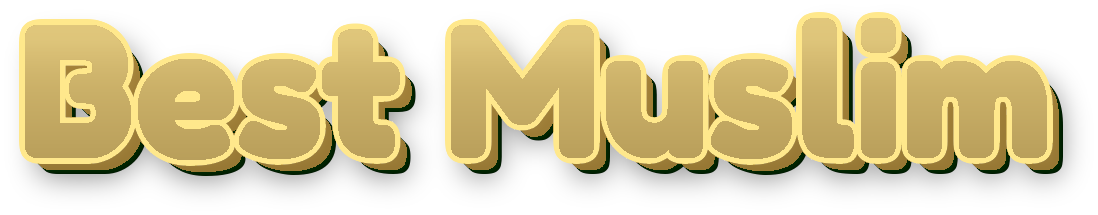
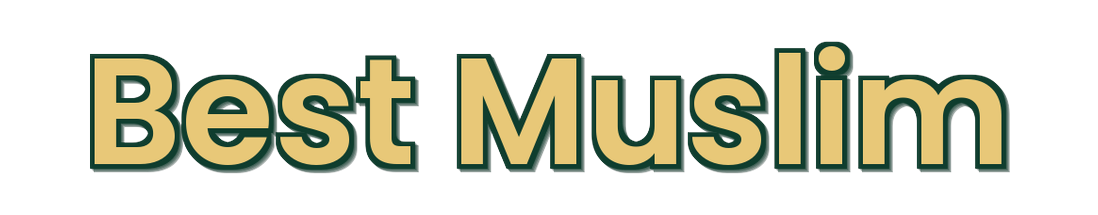
v85: Poppins wordmark, adaptive gold/green

diff --git a/index.html b/index.html
@@ -715,8 +715,19 @@ input[type=file]{display:none}
   .v2-splash-stage > *{animation:none;opacity:1;transform:none}
   .v2-splash{transition:opacity .35s}
 }
+/* v85: Poppins SemiBold live wordmark (OFL) — gold/#0F3D2E adaptive */
+@font-face{font-family:"BM Poppins";src:url("fonts/poppins-semibold.woff2") format("woff2");font-weight:600;font-style:normal;font-display:swap}
 .brand .tx b.v2-brand-txt{display:none}
-.brand .tx img.v2-brand-wm{display:block;height:22px;width:auto;max-width:150px;margin:2px 0 1px}
+.brand .tx img.v2-brand-wm{display:none} /* kept on disk for share cards; header uses live text */
+/* Beat .brand span{color:var(--fg3);text-transform:uppercase;letter-spacing:.1em} */
+.brand span.bm-wordmark,.bm-wordmark{font-family:"BM Poppins",Poppins,system-ui,sans-serif!important;font-weight:600!important;font-style:normal;font-size:17px;letter-spacing:.01em!important;line-height:1.05;white-space:nowrap;display:block;margin:2px 0 1px;padding:0;max-width:150px;overflow:visible;text-overflow:clip;text-transform:none!important;paint-order:stroke fill;color:#E8C878!important;-webkit-text-stroke:.7px #0F3D2E;text-shadow:1px 1px 0 rgba(15,61,46,.65),0 1px 2px rgba(15,61,46,.35)}
+.bm-wordmark.v2-splash-wm-txt,.v2-splash-wm .bm-wordmark{font-size:clamp(28px,7.2vw,40px)!important;max-width:none;margin:0;text-align:center;-webkit-text-stroke:1px #0F3D2E;text-shadow:2px 2px 0 rgba(15,61,46,.7),0 4px 14px rgba(15,61,46,.28);filter:none}
+.v2-splash-wm.bm-wm-live{display:block;line-height:1.1}
+/* Light / pink: bottle green fill + gold accents (higher specificity than .brand span) */
+:is([data-theme=light],[data-theme=pink]) .brand span.bm-wordmark,
+:is([data-theme=light],[data-theme=pink]) .bm-wordmark{color:#0F3D2E!important;-webkit-text-stroke:.65px #E8C878;text-shadow:1px 1px 0 rgba(232,200,120,.55),0 1px 2px rgba(196,156,64,.35)}
+:is([data-theme=light],[data-theme=pink]) .bm-wordmark.v2-splash-wm-txt,
+:is([data-theme=light],[data-theme=pink]) .v2-splash-wm .bm-wordmark{-webkit-text-stroke:1px #E8C878;text-shadow:2px 2px 0 rgba(232,200,120,.55),0 4px 14px rgba(15,61,46,.12)}
 .hdr .brand{align-items:center}
 
 .v2-flow{position:fixed;inset:0;z-index:60;display:flex;flex-direction:column;background:var(--bg)}
@@ -2399,7 +2410,7 @@ svg.k3{display:block;overflow:visible;filter:drop-shadow(0 3px 5px rgba(0,0,0,.1
     </div>
     <div class="brand">
       <img class="logo" src="icon-192.png" width="34" height="34" alt="" decoding="async">
-      <div class="tx"><img class="v2-brand-wm" src="wordmark-3d-hdr.webp" width="140" height="27" alt="Best Muslim" decoding="async" onerror="this.onerror=null;this.src='wordmark-3d-hdr.png'"><span data-i="brand.sub"></span><div class="hijri" id="hijri"></div></div>
+      <div class="tx"><span class="bm-wordmark v2-brand-wm" role="img" aria-label="Best Muslim">Best Muslim</span><span data-i="brand.sub"></span><div class="hijri" id="hijri"></div></div>
     </div>
     <div class="right">
       <button id="themeBtn" class="iconbtn" type="button" aria-label="Theme">☀</button>
@@ -2856,7 +2867,7 @@ svg.k3{display:block;overflow:visible;filter:drop-shadow(0 3px 5px rgba(0,0,0,.1
     <button data-p="belanja" type="button"><img class="nav-ic" src="nav/belanja.webp" width="30" height="30" alt="" decoding="async" onerror="this.onerror=null;this.src='nav/belanja.png'"><span data-v="nBelanja"></span></button>
     <button data-p="lainnya" type="button"><img class="nav-ic" src="nav/lainnya.webp" width="30" height="30" alt="" decoding="async" onerror="this.onerror=null;this.src='nav/lainnya.png'"><span data-v="nLainnya"></span></button>
   </nav>
-  <div class="v2-splash" id="v2Splash"><div class="v2-splash-stage" aria-hidden="false"><img class="v2-splash-logo" src="icon-192.png" width="112" height="112" alt="" decoding="async"><picture class="v2-splash-wm"><source type="image/webp" srcset="wordmark-3d-sm.webp"><img src="wordmark-3d-sm.png" width="280" height="55" alt="Best Muslim" decoding="async"></picture><picture class="v2-splash-bsm"><source type="image/webp" srcset="bismillah-3d-sm.webp"><img src="bismillah-3d-sm.png" width="320" height="102" alt="بِسْمِ اللَّهِ الرَّحْمَٰنِ الرَّحِيمِ" lang="ar" dir="rtl" decoding="async"></picture></div><span id="v2SplashTag">Tempat hati bertemu Allah</span><small id="v2SplashSkip">Ketuk untuk lanjut</small></div>
+  <div class="v2-splash" id="v2Splash"><div class="v2-splash-stage" aria-hidden="false"><img class="v2-splash-logo" src="icon-192.png" width="112" height="112" alt="" decoding="async"><span class="v2-splash-wm bm-wm-live"><span class="bm-wordmark v2-splash-wm-txt" role="img" aria-label="Best Muslim">Best Muslim</span></span><picture class="v2-splash-bsm"><source type="image/webp" srcset="bismillah-3d-sm.webp"><img src="bismillah-3d-sm.png" width="320" height="102" alt="بِسْمِ اللَّهِ الرَّحْمَٰنِ الرَّحِيمِ" lang="ar" dir="rtl" decoding="async"></picture></div><span id="v2SplashTag">Tempat hati bertemu Allah</span><small id="v2SplashSkip">Ketuk untuk lanjut</small></div>
   <div class="v2-flow" id="v2Flow" hidden><div class="v2-flowhd"><button class="btn sm ghost" id="flX" type="button">✕</button><div class="v2-steps" id="flSteps"></div><span class="dim" id="flCount" dir="ltr"></span></div><div class="v2-flowbody" id="flBody"></div><div class="v2-flowft"><button class="btn" id="flPrev" type="button"></button><button class="btn gold" id="flNextB" type="button"></button></div></div>
 
   <!-- Murattal sheet -->

diff --git a/sw.js b/sw.js
@@ -1,8 +1,15 @@
 /* Kusyu service worker — HANYA untuk klik notifikasi "Doa setelah azan".
    Sengaja TANPA handler fetch/cache: tidak mengubah cara aplikasi dimuat atau diperbarui, tidak ada jaringan pihak ketiga.
-   CACHE_VER=bm-sw-v84 — bump so phones re-check SW after deploy (no runtime cache; version is the signal). */
-const CACHE_VER="bm-sw-v84";
-self.addEventListener("install",()=>self.skipWaiting());
+   CACHE_VER=bm-sw-v85 — bump so phones re-check SW after deploy (no runtime cache; version is the signal). */
+const CACHE_VER="bm-sw-v85";
+/* Precache self-hosted OFL fonts (notification SW still has no fetch handler — version + install cache is the signal). */
+const PRECACHE=["fonts/poppins-semibold.woff2","fonts/OFL.txt"];
+self.addEventListener("install",e=>{
+  e.waitUntil((async()=>{
+    try{ const c=await caches.open(CACHE_VER); await c.addAll(PRECACHE); }catch(_){}
+    await self.skipWaiting();
+  })());
+});
 self.addEventListener("activate",e=>e.waitUntil((async()=>{
   try{ const keys=await caches.keys(); await Promise.all(keys.filter(k=>k!==CACHE_VER).map(k=>caches.delete(k))); }catch(_){}
   await self.clients.claim();
